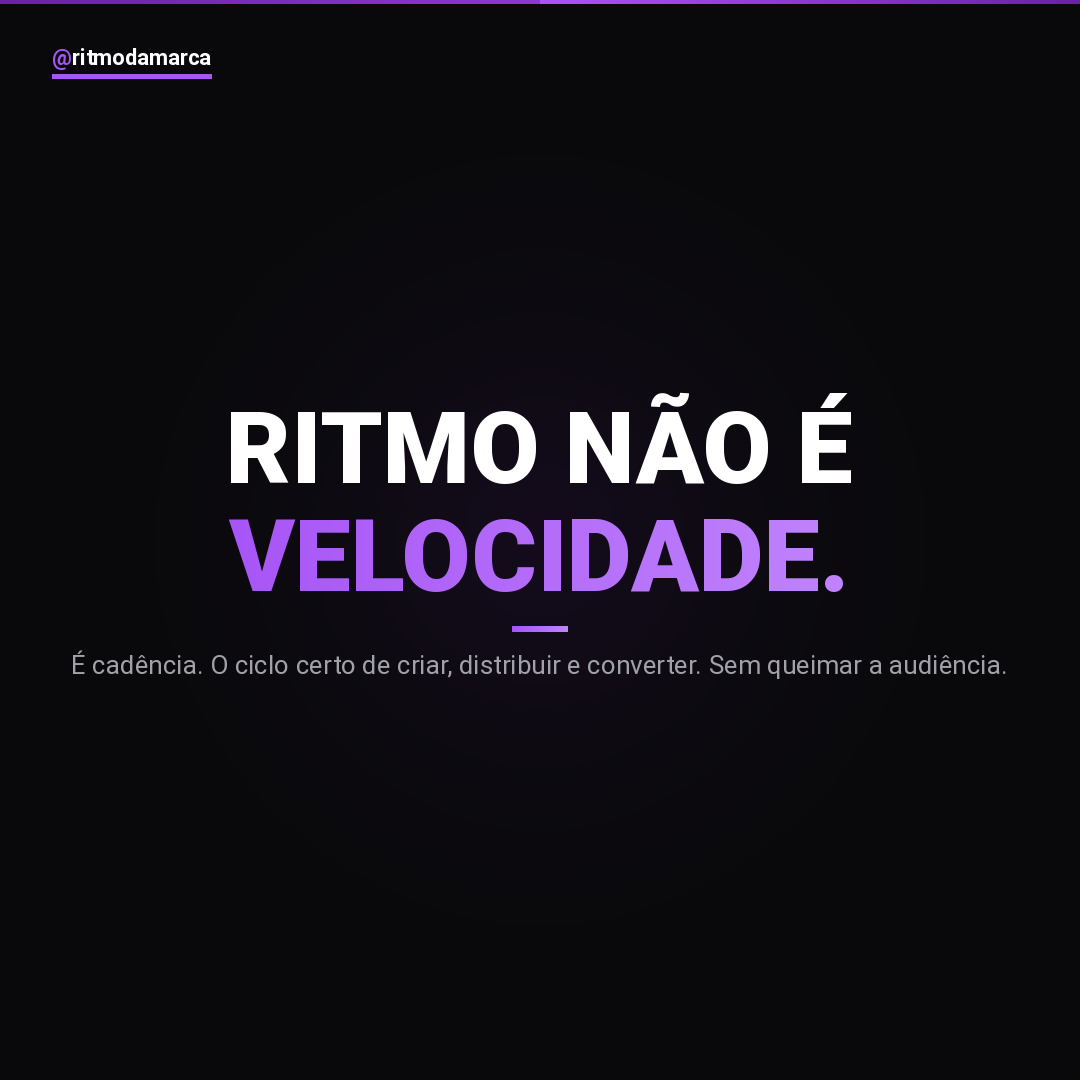
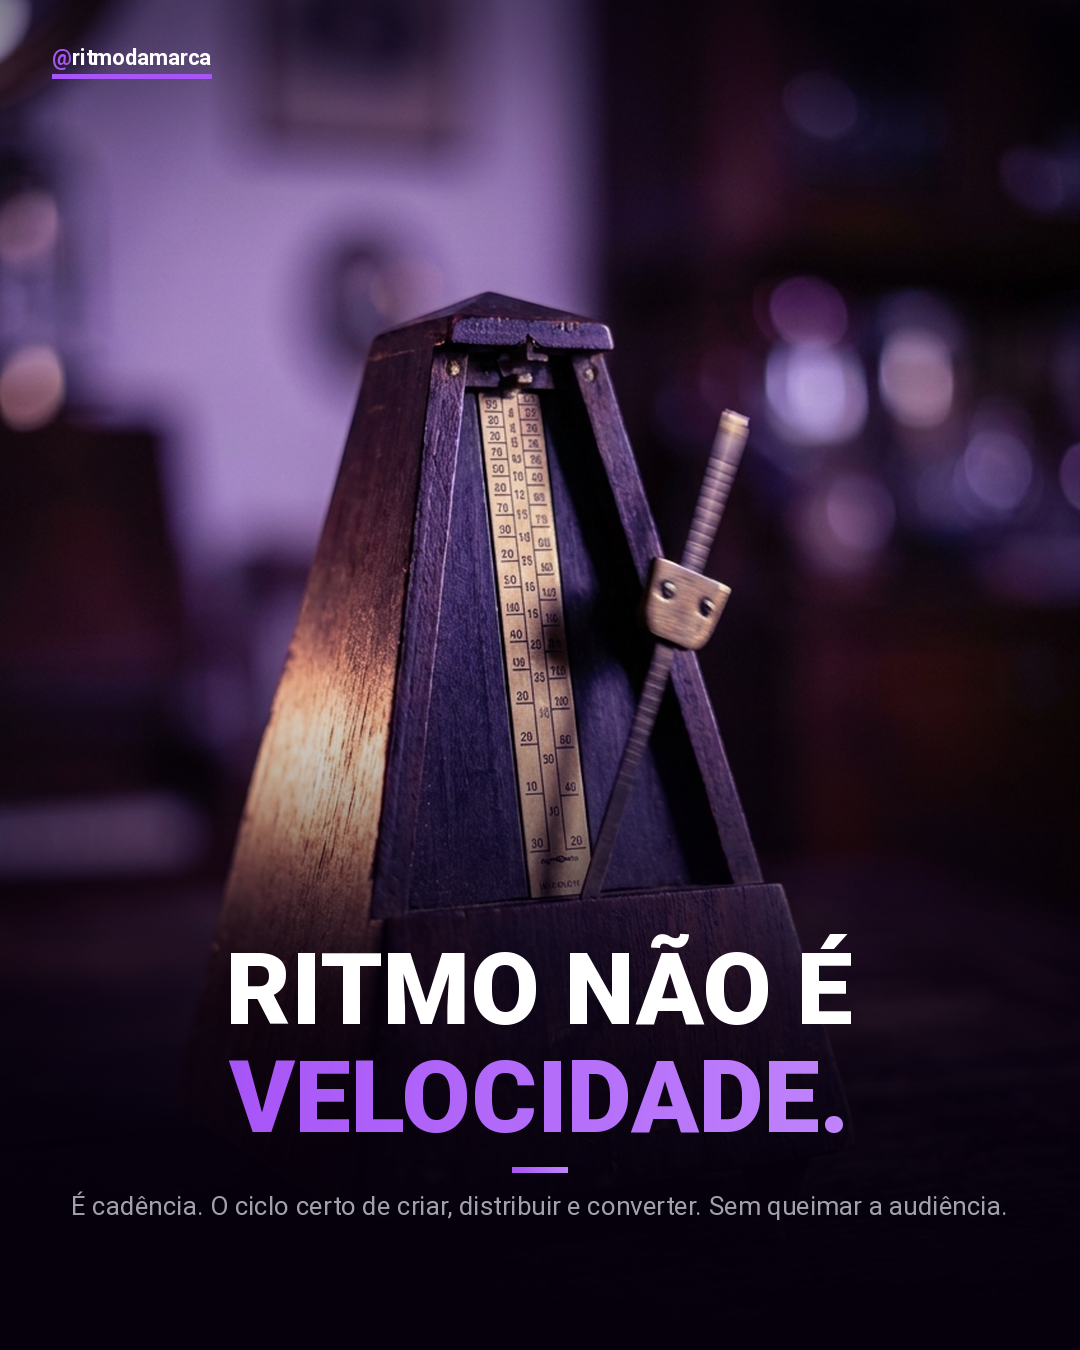
feat: slides Ritmo da Marca 1080x1350 com IA em todos
Formato portrait 4:5, backgrounds IA 2K temáticos em cada slide,
CTA apenas em texto (sem botões), badge de pilar no C2.

https://claude.ai/code/session_01S8Fw6EGhnFoALdeAFfWcbf

diff --git a/carrossel-ritmo/build_ritmo.py b/carrossel-ritmo/build_ritmo.py
@@ -4,7 +4,7 @@
 from PIL import Image, ImageDraw, ImageFont, ImageOps, ImageFilter
 import os, math
 
-W, H   = 1080, 1080
+W, H   = 1080, 1350
 MARGIN = 64
 MAX_W  = W - MARGIN * 2
 
@@ -135,7 +135,8 @@ def darken_zone(canvas, y_top):
     return base.convert("RGB")
 
 def make_open_slide(bg_path, headlines, subtitle, out_path,
-                    centering=(0.5,0.5), h_start=100, extra_fn=None):
+                    centering=(0.5,0.5), h_start=100, extra_fn=None,
+                    badge=None):
     img    = Image.open(bg_path).convert("RGB")
     canvas = ImageOps.fit(img, (W,H), Image.LANCZOS, centering=centering)
     canvas = smoky_purple(canvas)
@@ -143,16 +144,31 @@ def make_open_slide(bg_path, headlines, subtitle, out_path,
     d = ImageDraw.Draw(canvas)
 
     h_sz, fnt_h = fit_font(d, headlines, "black", h_start)
-    lead = int(h_sz * 1.08)
+    lead   = int(h_sz * 1.08)
     fnt_s  = F("regular", 26)
     sub_ls = wrap(d, subtitle, fnt_s)
-    sub_h  = len(sub_ls)*int(26*1.55)
+    sub_h  = len(sub_ls) * int(26*1.55)
+    badge_h = 60 if badge else 0
     extra_h = 80 if extra_fn else 0
-    block_h = lead*len(headlines) + 20+5+18 + sub_h + extra_h
-    y = max(H - 100 - block_h, 460)
+    block_h = badge_h + lead*len(headlines) + 20+5+18 + sub_h + extra_h
+    y = max(H - 120 - block_h, 560)
 
     canvas = darken_zone(canvas, y)
     d = ImageDraw.Draw(canvas)
+
+    # ── Badge de pilar ─────────────────────────────────────────────
+    if badge:
+        pill_w = tw(d, f"{badge['num']}  {badge['label']}", F("medium",13)) + 40
+        pill_h = 34
+        px     = (W - pill_w) // 2
+        d.rounded_rectangle([px, y, px+pill_w, y+pill_h], radius=17, fill=(*PUR_DK,))
+        d.rounded_rectangle([px, y, px+pill_w, y+pill_h], radius=17, outline=PURPLE, width=1)
+        inner_x = px + 16
+        d.text((inner_x, y+10), badge["num"], font=F("black",13), fill=PUR_LT)
+        sep_x = inner_x + tw(d, badge["num"], F("black",13)) + 8
+        d.line([(sep_x, y+8),(sep_x, y+pill_h-8)], fill=BG3, width=1)
+        d.text((sep_x+8, y+10), badge["label"], font=F("medium",13), fill=GRAY_M)
+        y += pill_h + 18
 
     for i, line in enumerate(headlines):
         lw = tw(d, line, fnt_h); x = (W-lw)//2
@@ -279,46 +295,45 @@ os.makedirs(OUT, exist_ok=True)
 # CARROSSEL 1 — "SUA MARCA TEM RITMO OU TEM PRESSA?"
 # ══════════════════════════════════════════════════════════════════
 
-def c1_s01():  # abertura — IA bg
+def c1_s01():
     make_open_slide(
-        f"{BG}/bg_c1_slide01.png",
+        f"{BG}/bg_c1_s01.png",
         ["SUA MARCA TEM", "RITMO OU", "TEM PRESSA?"],
         "A resposta muda tudo sobre como você cresce.",
         f"{OUT}/c1_slide01.png",
         h_start=108,
     )
 
-def c1_s02():  # clean
-    make_clean_slide(
+def c1_s02():
+    make_open_slide(
+        f"{BG}/bg_c1_s02.png",
         ["PRESSA É ANSIEDADE", "DISFARÇADA DE ESTRATÉGIA."],
         "Postar todo dia sem direção não é consistência. É ruído com calendário.",
         f"{OUT}/c1_slide02.png", h_start=84,
     )
 
-def c1_s03():  # clean
-    make_clean_slide(
+def c1_s03():
+    make_open_slide(
+        f"{BG}/bg_c1_s03.png",
         ["RITMO NÃO É", "VELOCIDADE."],
         "É cadência. O ciclo certo de criar, distribuir e converter. Sem queimar a audiência.",
         f"{OUT}/c1_slide03.png", h_start=100,
     )
 
-def c1_s04():  # clean
-    make_clean_slide(
+def c1_s04():
+    make_open_slide(
+        f"{BG}/bg_c1_s04.png",
         ["MARCAS QUE ESCALAM", "CONSTROEM ANTES DE ACELERAR."],
         "DNA claro. Posicionamento afiado. Sistema que repete resultado.",
         f"{OUT}/c1_slide04.png", h_start=84,
     )
 
-def c1_s05():  # clean + botões
-    def extra(canvas, d, y):
-        btn_row(canvas, d, y,
-                [("CONSTRUINDO", PUR_MD), ("CORRENDO", PURPLE)],
-                "Comenta aqui. Qual é o ritmo da sua marca agora?")
-    make_clean_slide(
+def c1_s05():
+    make_open_slide(
+        f"{BG}/bg_c1_s05.png",
         ["QUAL É O", "RITMO DA SUA MARCA?"],
-        "",
+        "Comenta aqui. Conta como está o ritmo do seu negócio agora.",
         f"{OUT}/c1_slide05.png", h_start=100,
-        extra_fn=extra,
     )
 
 
@@ -326,49 +341,48 @@ def c1_s05():  # clean + botões
 # CARROSSEL 2 — "O COMPASSO QUE TRANSFORMA MARKETING EM PREVISIBILIDADE"
 # ══════════════════════════════════════════════════════════════════
 
-def c2_s01():  # abertura — IA bg
+def c2_s01():
     make_open_slide(
-        f"{BG}/bg_c2_slide01.png",
+        f"{BG}/bg_c2_s01.png",
         ["O COMPASSO", "QUE TRANSFORMA", "MARKETING EM", "PREVISIBILIDADE."],
         "3 pilares. 1 sistema. Resultado que se repete.",
         f"{OUT}/c2_slide01.png",
         h_start=96,
     )
 
-def c2_s02():  # clean — pilar 01
-    make_clean_slide(
+def c2_s02():
+    make_open_slide(
+        f"{BG}/bg_c2_s02.png",
         ["DNA &", "POSICIONAMENTO."],
         "Sem clareza de quem você é e para quem fala, qualquer estratégia é desperdício.",
         f"{OUT}/c2_slide02.png", h_start=108,
         badge={"num": "01", "label": "PILAR"},
     )
 
-def c2_s03():  # clean — pilar 02
-    make_clean_slide(
+def c2_s03():
+    make_open_slide(
+        f"{BG}/bg_c2_s03.png",
         ["TRÁFEGO", "& TRAÇÃO."],
         "Meta e Google só funcionam quando criativo e público estão alinhados ao posicionamento.",
         f"{OUT}/c2_slide03.png", h_start=112,
         badge={"num": "02", "label": "PILAR"},
     )
 
-def c2_s04():  # clean — pilar 03
-    make_clean_slide(
+def c2_s04():
+    make_open_slide(
+        f"{BG}/bg_c2_s04.png",
         ["ECOSSISTEMA", "DE CONVERSÃO."],
         "CRM, automação e funil não são luxo. São o que transforma clique em cliente recorrente.",
         f"{OUT}/c2_slide04.png", h_start=108,
         badge={"num": "03", "label": "PILAR"},
     )
 
-def c2_s05():  # clean + botões
-    def extra(canvas, d, y):
-        btn_row(canvas, d, y,
-                [("01", PUR_DK), ("02", PUR_MD), ("03", PURPLE)],
-                "Qual pilar é seu gargalo? Comenta o número.")
-    make_clean_slide(
+def c2_s05():
+    make_open_slide(
+        f"{BG}/bg_c2_s05.png",
         ["QUAL PILAR", "É SEU GARGALO?"],
-        "",
+        "Comenta o número: 01, 02 ou 03. A gente te diz o próximo passo.",
         f"{OUT}/c2_slide05.png", h_start=104,
-        extra_fn=extra,
     )
 
 
